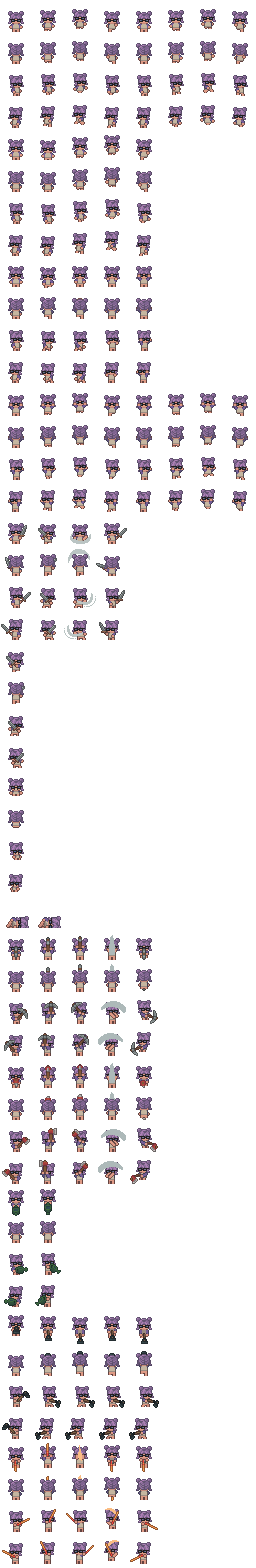
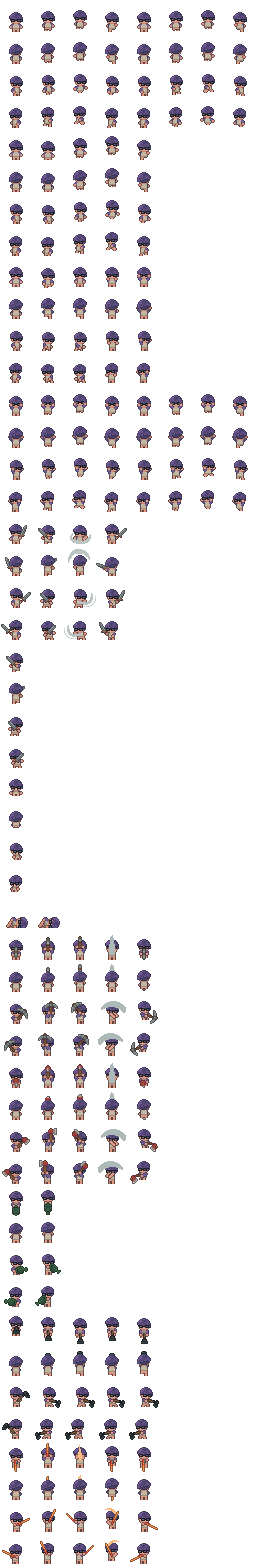
fix: switch Claudiu to purple emo hair, fix sprite animation flashing
- Recompose sprite with emo hair (purple) instead of spacebuns
- Fix floating button animation: use background-image with
  background-position instead of translating an <img> tag
- Scale walk strip to 3x (768x96) for crisp rendering in 40x40 button

diff --git a/components/onboarding/ClaudiuChatbot.tsx b/components/onboarding/ClaudiuChatbot.tsx
@@ -143,24 +143,15 @@ export function ClaudiuChatbot() {
             }}
             title="Chat with Claudiu"
           >
-            <div className="w-10 h-10 overflow-hidden">
-              <Image
-                src="/claudiu/claudiu-walk-2x.png"
-                alt="Claudiu"
-                width={512}
-                height={64}
-                style={{
-                  imageRendering: "pixelated",
-                  width: "512px",
-                  height: "64px",
-                  objectFit: "none",
-                  objectPosition: "0 0",
-                  animation: "claudiu-walk 0.8s steps(8) infinite",
-                }}
-                className="pointer-events-none"
-                priority
-              />
-            </div>
+            <div
+              className="w-10 h-10 pointer-events-none"
+              style={{
+                backgroundImage: "url(/claudiu/claudiu-walk-2x.png)",
+                backgroundSize: "768px 96px",
+                imageRendering: "pixelated",
+                animation: "claudiu-walk 0.8s steps(8) infinite",
+              }}
+            />
           </motion.button>
         )}
       </AnimatePresence>

diff --git a/app/globals.css b/app/globals.css
@@ -209,7 +209,7 @@ body {
 
 /* Claudiu sprite walk animation */
 @keyframes claudiu-walk {
-  from { transform: translateX(0); }
-  to { transform: translateX(-512px); }
+  from { background-position: 0 0; }
+  to { background-position: -768px 0; }
 }
 
